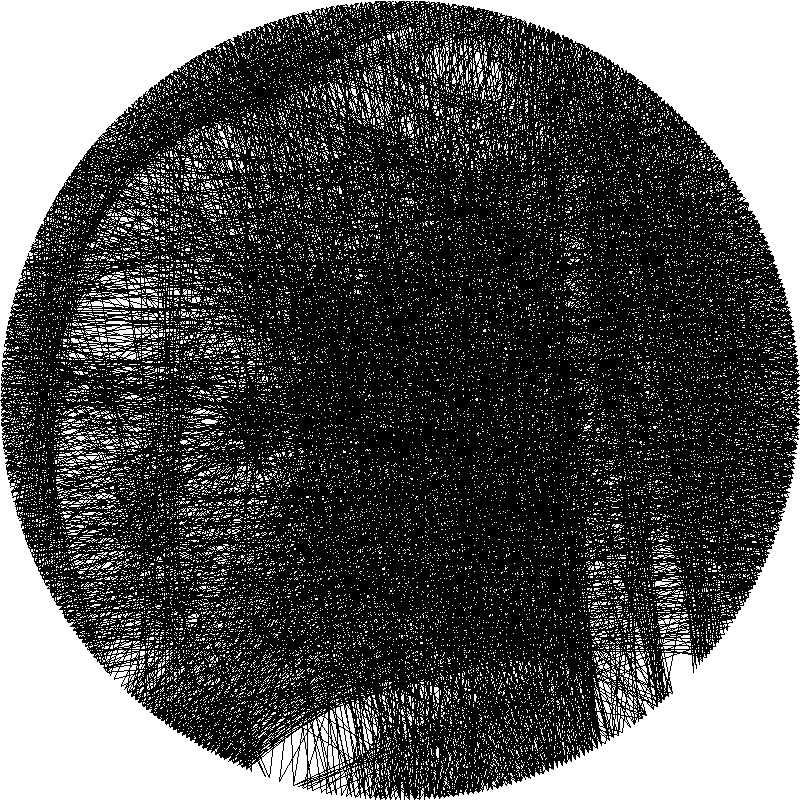
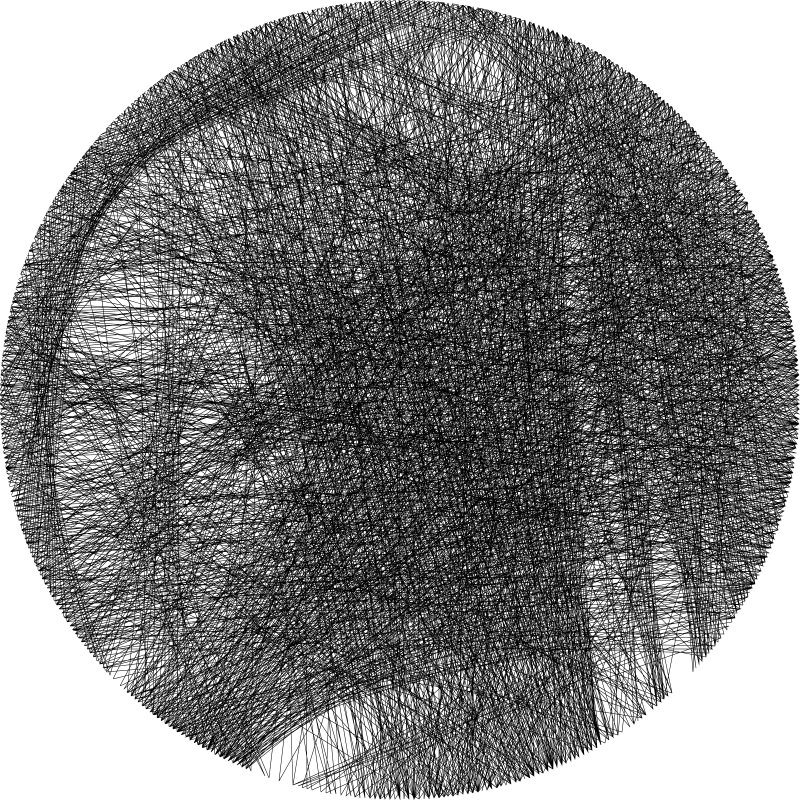
move to cairo
img

changelog

diff --git a/pyanchorknit/weaving.py b/pyanchorknit/weaving.py
@@ -4,6 +4,7 @@ from multiprocessing import Pool
 from pathlib import Path
 from typing import Dict, Tuple
 
+import cairo
 from cv2 import cv2
 import numpy as np
 from skimage.measure import profile_line
@@ -61,6 +62,9 @@ def weaving(
     centerx = img.shape[0] // 2
     centery = img.shape[1] // 2
 
+    side = img.shape[0]
+    halfside = side / 2
+
     points = []
 
     for theta in np.linspace(0, 2 * np.pi, n_edges + 1)[:-1]:
@@ -68,13 +72,26 @@ def weaving(
         y = min(int(centery * np.sin(theta) + centery), img.shape[1] - 1)
         points.append(np.array([x, y], dtype=np.int32))
 
-    white_img: np.typing.ArrayLike = np.ones(img.shape[:2], dtype=np.uint8) * WHITE
+    surface = cairo.ImageSurface(cairo.FORMAT_ARGB32, *img.shape[:2])
+    ctx = cairo.Context(surface)
+    ctx.set_line_width(0.5)
+
+    ctx.set_source_rgb(1, 1, 1)
+    ctx.arc(halfside, halfside, halfside, 0, 2 * np.pi)
+    ctx.clip()
+
+    ctx.rectangle(0, 0, side, side)
+    ctx.fill()
+
+    ctx.set_source_rgb(0, 0, 0)
 
     traces: Dict[Tuple[int, int], float] = dict()
     thread_length = 0
 
     p = 0
     max_intensity = None
+
+    ctx.move_to(*tuple(points[p]))
 
     for _ in tqdm.tqdm(range(maxlines)):
         plines = [(p, j) for j in range(len(points)) if j != p]
@@ -102,7 +119,8 @@ def weaving(
 
         LINEWIDTH = 1
         bw_img = cv2.line(bw_img, p1, p2, BLACK, LINEWIDTH)
-        white_img = cv2.line(white_img, p1, p2, BLACK, LINEWIDTH)
+
+        ctx.line_to(*p2)
 
         thread_length += np.linalg.norm(points[p] - points[pprime])
         traces[(p, pprime)] = intensity
@@ -110,10 +128,12 @@ def weaving(
 
     logger.info(f"Thread used: {thread_length:.2f}")
 
-    circular_mask = create_circular_mask(*img.shape[:2]) * 255
-
-    rgba_img = cv2.merge(np.array([white_img, white_img, white_img, circular_mask]))
-    cv2.imwrite(str(img_out.resolve()), rgba_img)
+    ctx.stroke()
+    # circular_mask = create_circular_mask(*img.shape[:2]) * 255
+    # rgba_img = cv2.merge(np.array([white_img, white_img, white_img, circular_mask]))
+    # cv2.imwrite(str(img_out.resolve()), rgba_img)
+    with open(img_out, "wb") as fileobj:
+        surface.write_to_png(fileobj)
 
     points_json = {i: tuple(map(int, point)) for i, point in enumerate(points)}
     traces_json = [((x, y), trace_len) for (x, y), trace_len in traces.items()]

diff --git a/README.md b/README.md
@@ -2,6 +2,10 @@
 Inspired by the work of [Petros Vrellis](https://www.instagram.com/pvrellis/). Based on [Weaver](https://github.com/alyyousuf7/Weaver).
 
 ## Installation
+### Prerequisites
+`pyanchorknit` uses `pycairo`, which requires `pkg-config` and `cairo`. Check [here](https://pycairo.readthedocs.io/en/latest/getting_started.html) for installation commands for your platform.
+
+### Install `pyanchorknit`
 Usage of [pipx](https://pypa.github.io/pipx/) is encouraged.
 
 ```bash
@@ -14,7 +18,7 @@ pyanchorknit imgs/Johannes-Vermeer-Girl-With-a-Pearl-Earring.jpg --n-jobs 16 --n
 ```
 
 ### Output image
-![Girl with a Pearl Earring](imgs/Johannes-Vermeer-Girl-With-a-Pearl-Earring-weave.png)
+<img src="imgs/Johannes-Vermeer-Girl-With-a-Pearl-Earring-weave.png" alt="drawing" width="400"/>
 
 ### Output JSON
 ```json
@@ -34,7 +38,7 @@ pyanchorknit imgs/Johannes-Vermeer-Girl-With-a-Pearl-Earring.jpg --n-jobs 16 --n
       117
     ]
   },
-  "traces_json": [
+  "traces": [
     [
       [
         0,

diff --git a/CHANGELOG.md b/CHANGELOG.md
@@ -5,6 +5,10 @@ All notable changes to this project will be documented in this file.
 The format is based on [Keep a Changelog](https://keepachangelog.com/en/1.0.0/),
 and this project adheres to [Semantic Versioning](https://semver.org/spec/v2.0.0.html).
 
+## [0.3.0] - 2021-10-02
+### Changed
+- Draw final image with Cairo
+
 ## [0.2.0] - 2021-10-02
 ### Added
 - intensity threshold added as parameter
